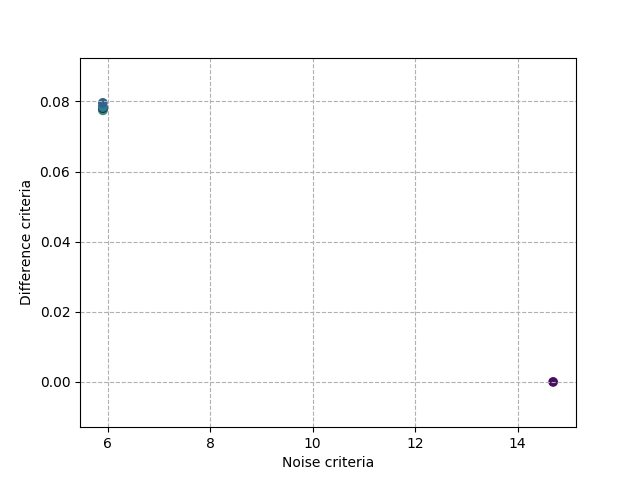
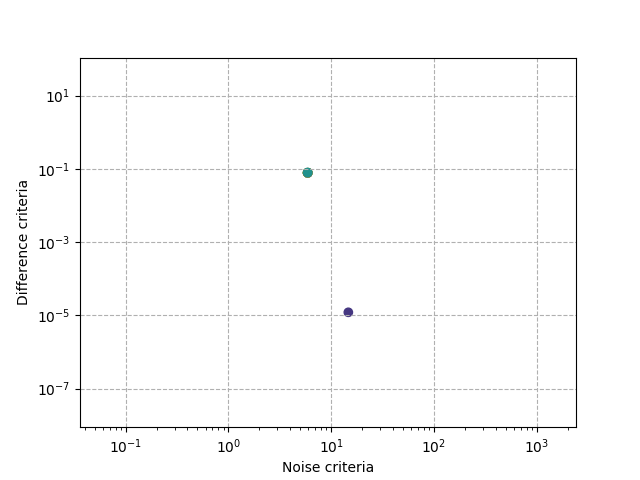
Added logscale

diff --git a/main.py b/main.py
@@ -21,12 +21,15 @@ def plot_results(x_source, y_source,
 def plot_criteria(noise, difference,
                   filename):
     plt.xlabel('Noise criteria')
+    plt.xscale('log')
     plt.ylabel('Difference criteria')
+    plt.yscale('log')
     colors = np.random.rand(len(noise))
     plt.scatter(noise, difference, c=colors)
     plt.grid(linestyle='--')
     plt.savefig(filename)
     plt.clf()
+
 
 if __name__ == '__main__':
     # Functions to work on
@@ -60,4 +63,6 @@ if __name__ == '__main__':
     y_filtered = ssf.mean_geom_sw(y_noisy, weights)
     plot_results(x_source, y_source, y_noisy, y_filtered, 'sin(x) + 0.5', 'results_5.png')
     plot_criteria(results['W'].values, results['D'].values, 'criteria_5.png')
+
+    print('Done!')
 
